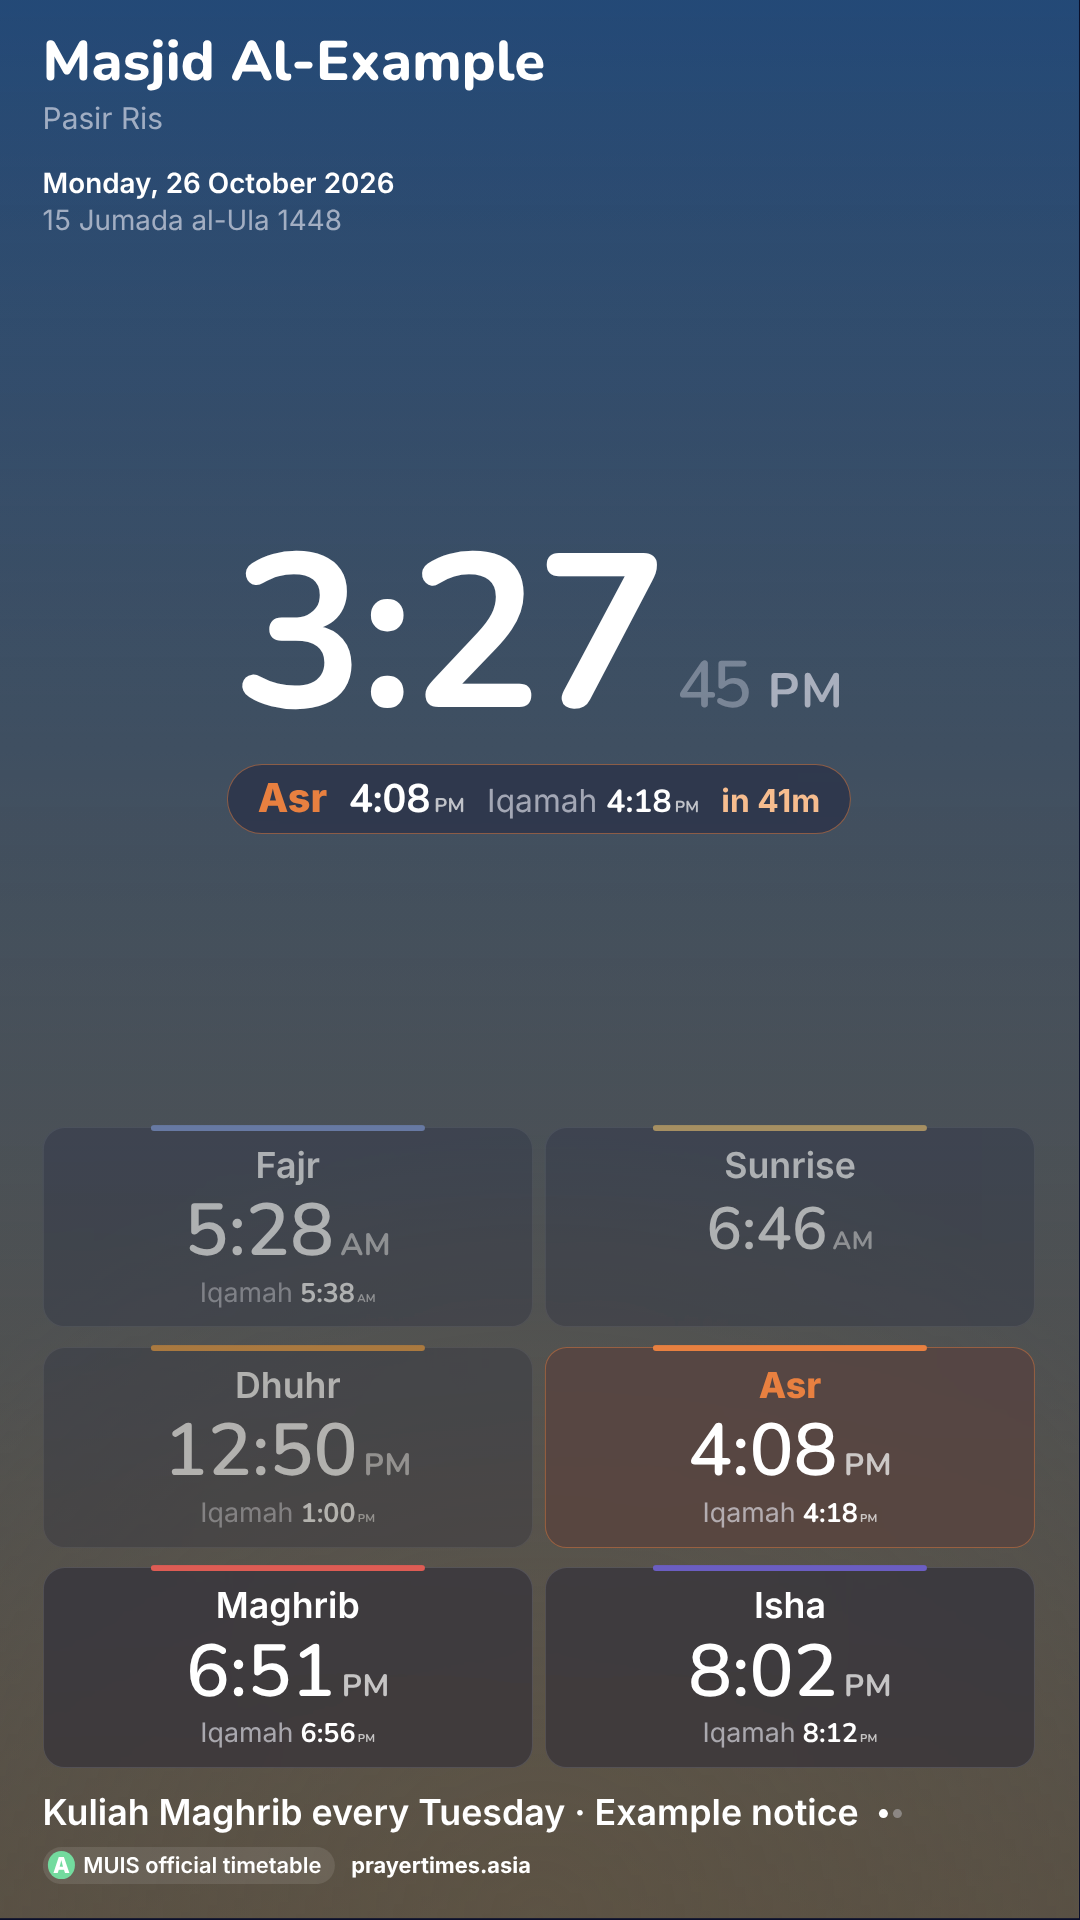
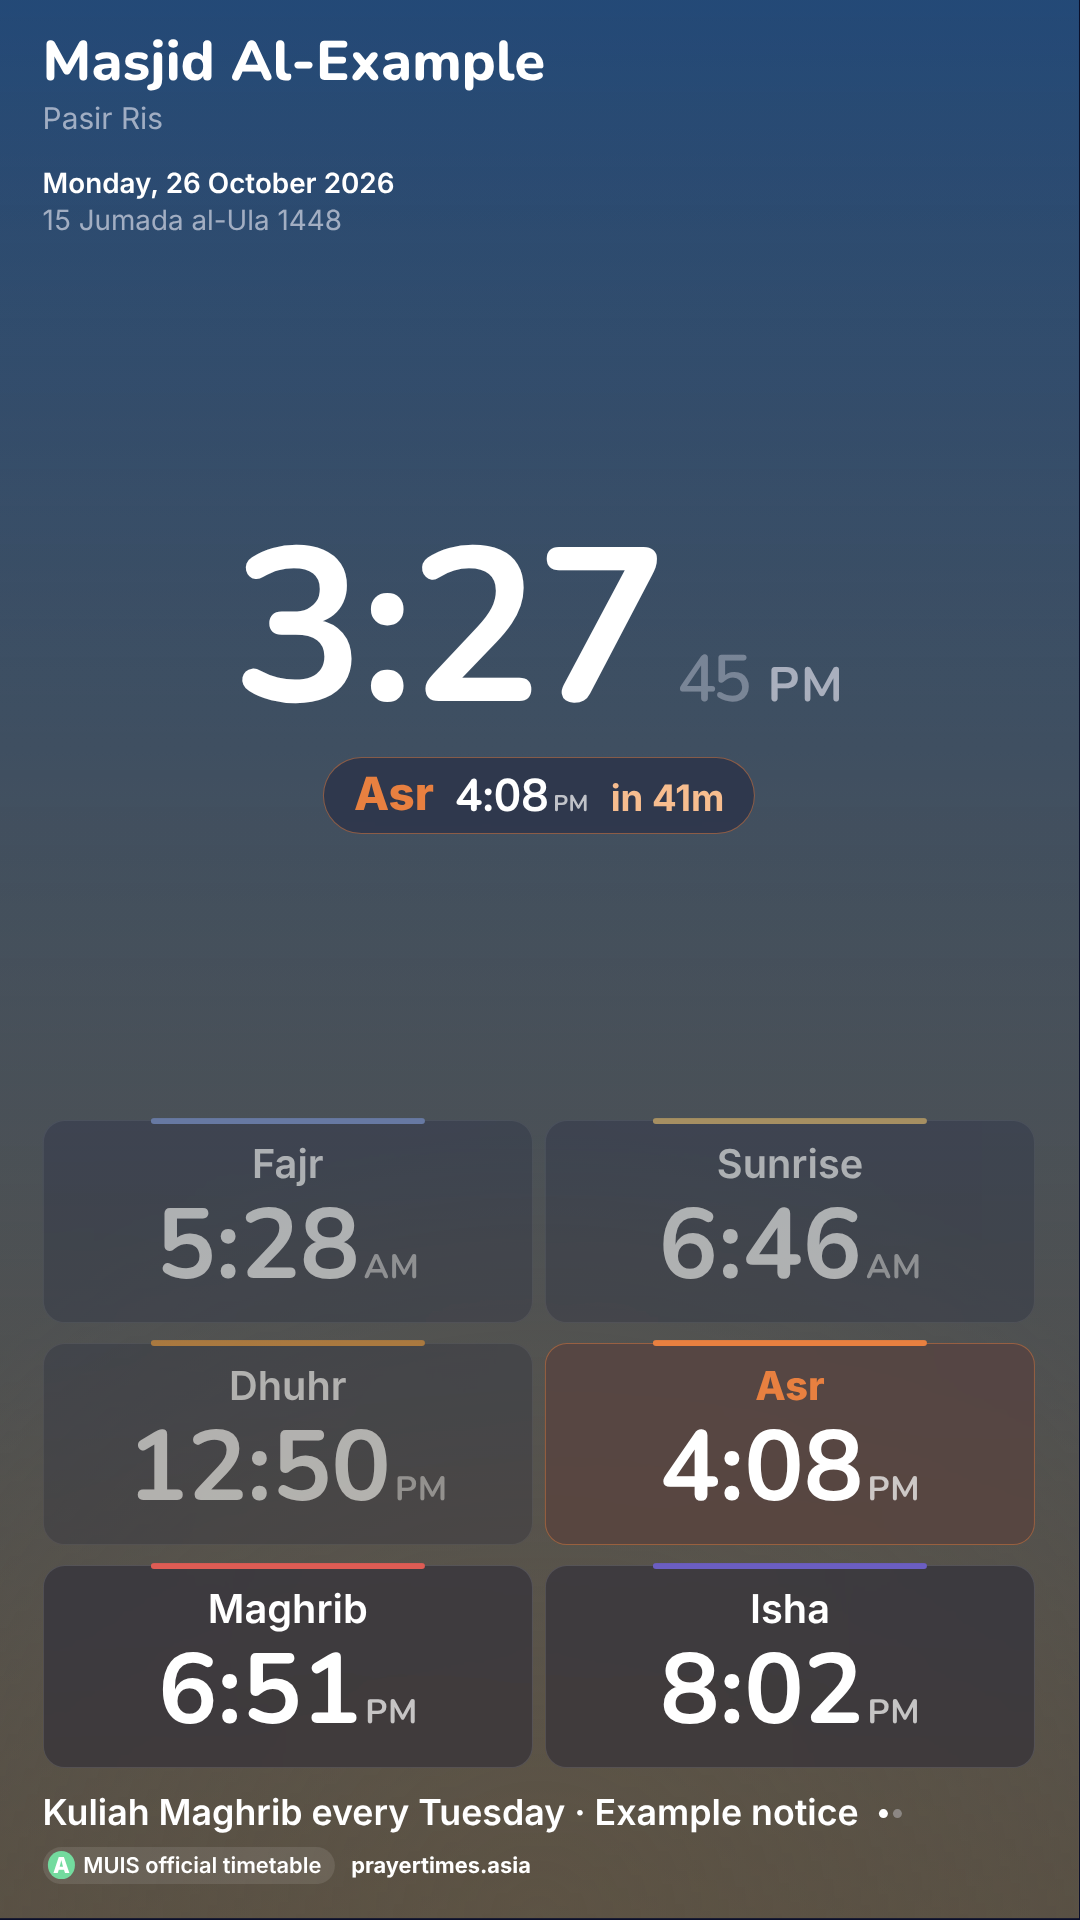
Masjid screen: iqamah times hidden by default, bigger prayer times
Jemaah mostly read the prayer times, so iqamah times are now an option in
setup (off by default); the countdown after the azan still runs. Without
the iqamah line the times on every look are larger.

Claude-Session: https://claude.ai/code/session_01N3UT55kGUzTCzRML5iKXZQ

diff --git a/web/src/screen/Display.tsx b/web/src/screen/Display.tsx
@@ -49,7 +49,7 @@ export function Display({ config: c, now, arabicTurn = false }: { config: Screen
         <section class="scr-sun" aria-hidden="true"><SunPath width={1600} height={240} now={now} day={sd.day} tz={tz} /></section>
       )}
 
-      <ol class="scr-grid">
+      <ol class={`scr-grid${c.showIqamah ? '' : ' no-iq'}`}>
         {sd.imsak != null && (
           <li class="scr-cell scr-imsak">
             <span class="scr-name">{w.imsak}</span>
@@ -58,7 +58,7 @@ export function Display({ config: c, now, arabicTurn = false }: { config: Screen
         )}
         {PRAYERS.map((p) => {
           const on = p === focus
-          const iq = p === 'sunrise' ? undefined : sd.iqamah[p]
+          const iq = p === 'sunrise' || !c.showIqamah ? undefined : sd.iqamah[p]
           const sub = p === 'maghrib' && sd.ramadan ? w.iftar : null
           const passed = isToday && !on && sd.day.times[p] <= now
           return (
@@ -66,7 +66,7 @@ export function Display({ config: c, now, arabicTurn = false }: { config: Screen
               <i class="scr-bar" />
               <span class="scr-name">{label(p)}{sub && <em> · {sub}</em>}</span>
               <Time ms={sd.day.times[p]} tz={tz} h24={c.h24} />
-              <span class="scr-iq">{iq != null ? <>{p === 'dhuhr' && sd.friday && c.jumuah ? w.khutbah : w.iqamah} <Time ms={iq} tz={tz} h24={c.h24} small /></> : ' '}</span>
+              {c.showIqamah && <span class="scr-iq">{iq != null ? <>{p === 'dhuhr' && sd.friday && c.jumuah ? w.khutbah : w.iqamah} <Time ms={iq} tz={tz} h24={c.h24} small /></> : ' '}</span>}
             </li>
           )
         })}
@@ -102,7 +102,7 @@ function Dial({ sd, now, config: c, label, focus, isToday }: {
   const w = WORDS[c.lang]
   const tz = c.place!.tz
   const nextFajr = screenDay(sd.day.times.dhuhr + 86_400_000, c, rowFor)?.day.times.fajr ?? sd.day.times.fajr + 86_400_000
-  const marks: DialMark[] = PRAYERS.map((p) => ({ id: p, date: sd.day.times[p], extraLine: p !== 'sunrise' && sd.iqamah[p] != null, tint: `var(--t-${p})` }))
+  const marks: DialMark[] = PRAYERS.map((p) => ({ id: p, date: sd.day.times[p], extraLine: c.showIqamah && p !== 'sunrise' && sd.iqamah[p] != null, tint: `var(--t-${p})` }))
   if (sd.imsak != null) marks.push({ id: 'imsak', date: sd.imsak, minor: true })
   return (
     <section class="scr-dialbox">
@@ -111,7 +111,7 @@ function Dial({ sd, now, config: c, label, focus, isToday }: {
           if (m.id === 'imsak') return <div class="scr-dm minor"><span class="scr-dm-name">{w.imsak}</span><Time ms={m.date} tz={tz} h24={c.h24} small /></div>
           const p = m.id as Prayer
           const on = p === focus
-          const iq = p === 'sunrise' ? undefined : sd.iqamah[p]
+          const iq = p === 'sunrise' || !c.showIqamah ? undefined : sd.iqamah[p]
           const passed = isToday && !on && m.date <= now
           return (
             <div class={`scr-dm${on ? ' on' : ''}${passed ? ' passed' : ''}`} style={{ '--tint': `var(--t-${p})` }}>
@@ -148,7 +148,7 @@ function Hero({ phase, now, config: c, label }: { phase: Phase; now: number; con
   }
   if (phase.kind === 'prayer') return <section class="scr-hero" />
   const next = phase.next
-  const iq = next === 'sunrise' ? undefined : phase.day.iqamah[next]
+  const iq = next === 'sunrise' || !c.showIqamah ? undefined : phase.day.iqamah[next]
   const sec = String(Math.floor(now / 1000) % 60).padStart(2, '0')
   return (
     <section class="scr-hero">

diff --git a/web/src/screen/screen.css b/web/src/screen/screen.css
@@ -374,3 +374,36 @@ textarea { resize: vertical; }
 select { color-scheme: dark; }
 select option { background-color: #161a36; color: #fff; }
 .scr-look-board .scr-cell .scr-iq .scr-t { font-size: calc(var(--u) * 3.4); }
+
+/* Bigger prayer times: without the iqamah line the times take the space (the times are what people read). */
+.scr-grid.no-iq .scr-cell { gap: calc(var(--u) * 0.4); padding-block: calc(var(--u) * 2.2); }
+.scr-grid.no-iq .scr-cell .scr-t { font-size: calc(var(--u) * 9); font-weight: 700; }
+.scr-grid.no-iq .scr-syuruk .scr-t, .scr-grid.no-iq .scr-imsak .scr-t { font-size: calc(var(--u) * 7); }
+.scr-grid.no-iq .scr-name { font-size: calc(var(--u) * 4); }
+.scr-look-board .scr-grid.no-iq .scr-cell { grid-template-columns: minmax(0, 1fr) auto; grid-template-areas: "name time"; padding-block: calc(var(--u) * 1.2); }
+.scr-look-board .scr-grid.no-iq .scr-cell .scr-t { font-size: calc(var(--u) * 7.4); }
+.scr-look-board .scr-grid.no-iq .scr-name { font-size: calc(var(--u) * 4.4); }
+.scr-look-bands .scr-grid.no-iq .scr-cell { grid-template-areas: "name time"; align-items: center; }
+.scr-look-bands .scr-grid.no-iq .scr-cell .scr-t { font-size: calc(var(--u) * 9.4); font-weight: 400; }
+.scr-look-bands .scr-grid.no-iq .scr-name { font-size: calc(var(--u) * 5.2); }
+.scr-dm .scr-t { font-size: 38px; }
+.scr-dm-name { font-size: 23px; }
+.scr-next { font-size: calc(var(--u) * 4.6); }
+
+/* Bigger prayer times: without the iqamah line the times take the space (the times are what people read). */
+.scr-grid.no-iq .scr-cell { gap: calc(var(--u) * 0.4); padding-block: calc(var(--u) * 2.2); }
+.scr-grid.no-iq .scr-cell .scr-t { font-size: calc(var(--u) * 9); font-weight: 700; }
+.scr-grid.no-iq .scr-syuruk .scr-t, .scr-grid.no-iq .scr-imsak .scr-t { font-size: calc(var(--u) * 7); }
+.scr-grid.no-iq .scr-name { font-size: calc(var(--u) * 4); }
+.scr-look-board .scr-grid.no-iq .scr-cell { grid-template-columns: minmax(0, 1fr) auto; grid-template-areas: "name time"; padding-block: calc(var(--u) * 1.2); }
+.scr-look-board .scr-grid.no-iq .scr-cell .scr-t { font-size: calc(var(--u) * 7.4); }
+.scr-look-board .scr-grid.no-iq .scr-name { font-size: calc(var(--u) * 4.4); }
+.scr-look-bands .scr-grid.no-iq .scr-cell { grid-template-areas: "name time"; align-items: center; }
+.scr-look-bands .scr-grid.no-iq .scr-cell .scr-t { font-size: calc(var(--u) * 9.4); font-weight: 400; }
+.scr-look-bands .scr-grid.no-iq .scr-name { font-size: calc(var(--u) * 5.2); }
+.scr-dm .scr-t { font-size: 38px; }
+.scr-dm-name { font-size: 23px; }
+.scr-next { font-size: calc(var(--u) * 4.6); }
+.scr-grid.no-iq .scr-cell .scr-t { font-size: calc(var(--u) * 8.2); }
+.scr-grid.no-iq .scr-cell .scr-t small { font-size: 0.34em; margin-left: 0.12em; }
+.portrait .scr-grid.no-iq .scr-cell .scr-t { font-size: calc(var(--u) * 10); }

diff --git a/web/src/screen/Setup.tsx b/web/src/screen/Setup.tsx
@@ -133,7 +133,7 @@ export function Setup({ initial, now, onOpen }: { initial: ScreenConfig; now: nu
 
           <fieldset>
             <legend><span class="step">2</span>Iqamah times</legend>
-            <p class="muted small">For each prayer, type how many minutes after the azan the iqamah starts (for example 10), or a fixed time (for example 13:15). Leave a box empty to skip the iqamah countdown for that prayer.</p>
+            <p class="muted small">After the azan the screen counts down to the iqamah. For each prayer, type how many minutes after the azan the iqamah starts (for example 10), or a fixed time (for example 13:15). Leave a box empty to skip the countdown for that prayer.</p>
             <div class="setup-iq">
               {OBLIGATORY_PRAYERS.map((p) => (
                 <div key={p}>
@@ -144,6 +144,7 @@ export function Setup({ initial, now, onOpen }: { initial: ScreenConfig; now: nu
                 </div>
               ))}
             </div>
+            <label class="check"><input id="s-showiq" type="checkbox" checked={c.showIqamah} onChange={(e) => set({ showIqamah: (e.target as HTMLInputElement).checked })} /> Also print the iqamah times on the screen (most jemaah only need the prayer times)</label>
             <label for="s-jumuah">Friday khutbah starts (24-hour, for example 13:00)</label>
             <input id="s-jumuah" value={c.jumuah ?? ''} placeholder="13:00" inputMode="numeric"
               onInput={(e) => { const v = (e.target as HTMLInputElement).value.trim(); set({ jumuah: isHHMM(v) ? v.padStart(5, '0') : null }) }} />

diff --git a/web/src/screen/config.ts b/web/src/screen/config.ts
@@ -43,6 +43,8 @@ export interface ScreenConfig {
   lang: ScreenLanguage
   look: ScreenLook
   iqamah: Partial<Record<Obligatory, IqamahRule>>
+  /** Print iqamah times beside the azan times (off: the countdown after the azan still runs). */
+  showIqamah: boolean
   /** Khutbah starts, "HH:mm"; Friday's Zohor becomes Jumu'ah. */
   jumuah: string | null
   notices: string[]
@@ -63,6 +65,7 @@ export const DEFAULT_CONFIG: ScreenConfig = {
   lang: 'en',
   look: 'night',
   iqamah: { fajr: { after: 10 }, dhuhr: { after: 10 }, asr: { after: 10 }, maghrib: { after: 5 }, isha: { after: 10 } },
+  showIqamah: false,
   jumuah: null,
   notices: [],
   h24: false,
@@ -135,6 +138,7 @@ export function sanitize(raw: unknown): ScreenConfig {
       else if (rule && typeof rule.after === 'number' && rule.after >= 0 && rule.after <= 60) out.iqamah[prayer] = { after: Math.round(rule.after) }
     }
   }
+  out.showIqamah = r.showIqamah === true
   out.jumuah = isHHMM(r.jumuah) ? r.jumuah : null
   if (Array.isArray(r.notices)) {
     out.notices = r.notices.filter((n): n is string => typeof n === 'string')

diff --git a/web/tests/screen.test.ts b/web/tests/screen.test.ts
@@ -41,6 +41,8 @@ describe('screen config', () => {
   it('defaults to English and the Night look, and keeps a chosen look', () => {
     expect(DEFAULT_CONFIG.lang).toBe('en')
     expect(DEFAULT_CONFIG.look).toBe('night')
+    expect(DEFAULT_CONFIG.showIqamah).toBe(false)
+    expect(sanitize({ showIqamah: true }).showIqamah).toBe(true)
     expect(sanitize({ look: 'board' }).look).toBe('board')
     expect(sanitize({ look: 'dial' }).look).toBe('dial')
     expect(sanitize({ look: 'disco' }).look).toBe('night')
